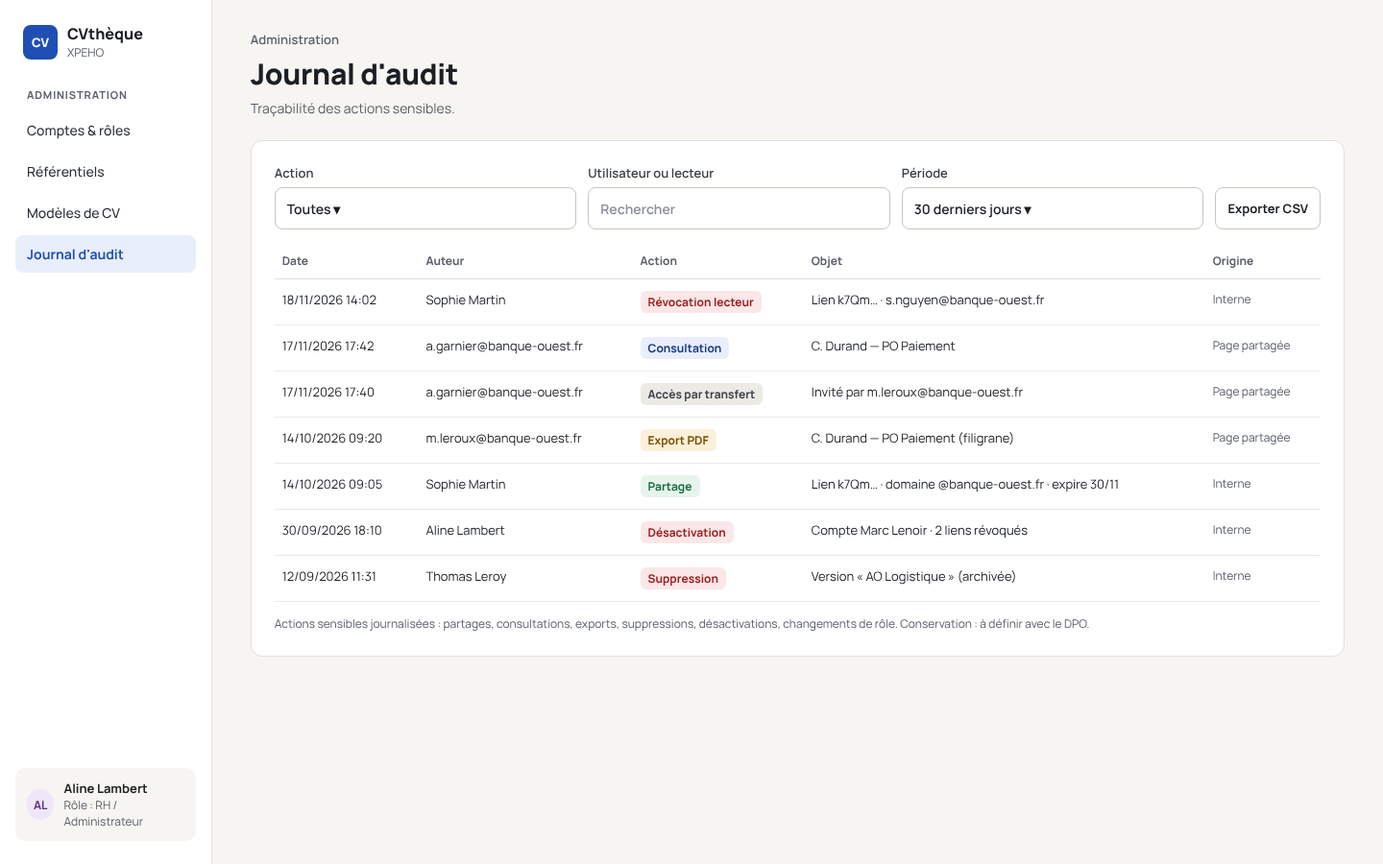
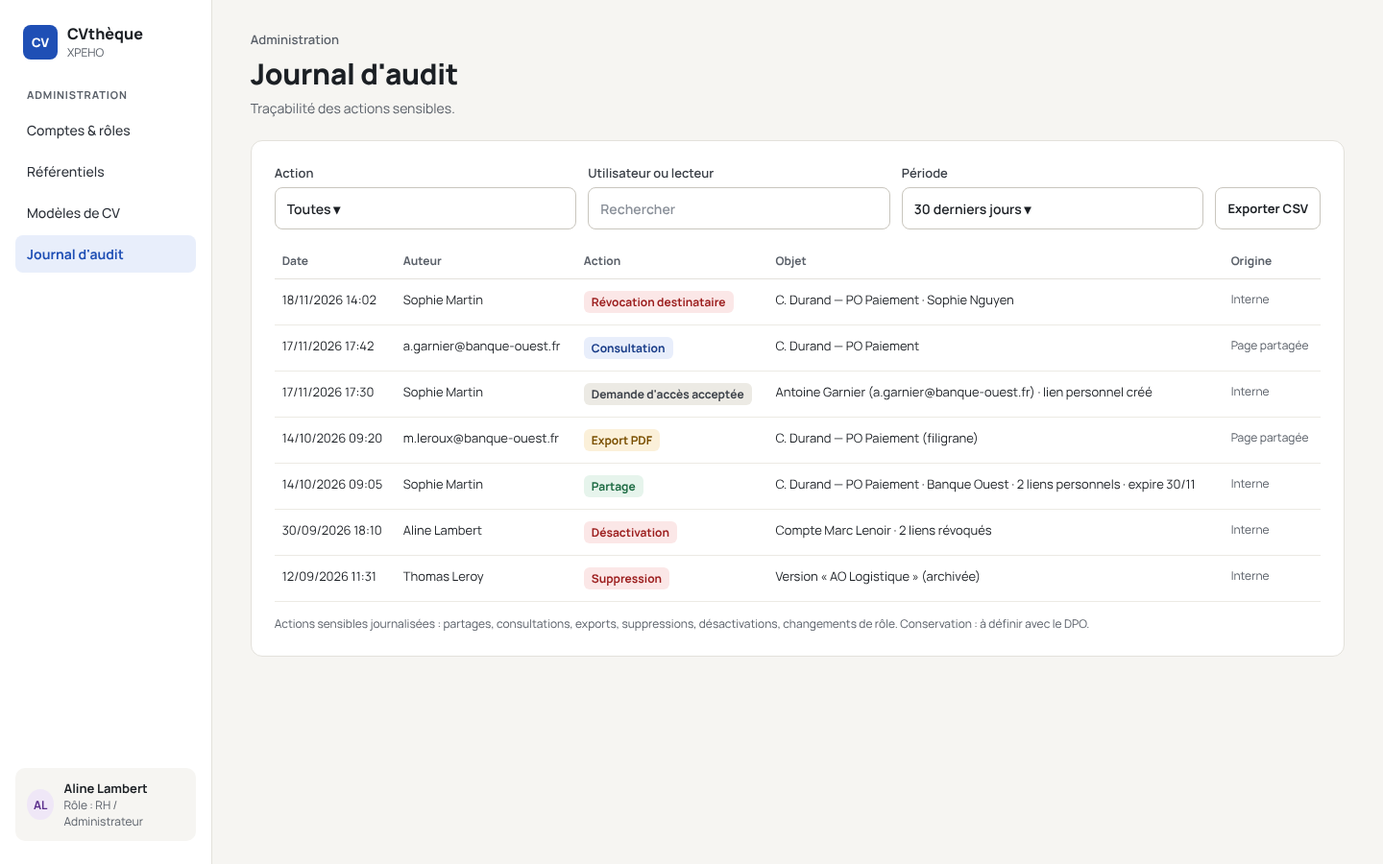
docs: [CVIP-9] retirer les envois d'e-mails automatiques du cahier des charges L'application n'envoie plus aucun e-mail automatique ; les informations utiles sont affichées dans l'application. - §1 : envoi d'e-mails automatiques ajouté au hors périmètre (décidé). - §3.1.4 : la relance e-mail des CV 
dans l'application.
-
§3.3.3 à 3.3.6 : l'accès par code e-mail (modes domaine et nominatif)

est remplacé par un lien personnel et un mot de passe générés pour

chaque destinataire, transmis par le commercial ; le bouton « Partager

avec un collègue » est remplacé par une demande d'accès validée par le

commercial ; révocation par destinataire.
-
§3.3.7 : les notifications e-mail au commercial sont remplacées par un

suivi des consultations et des demandes d'accès dans l'application.
-
§2, §3.3.2, §5 : rôle client, filigrane et sécurité des liens alignés ;

le consultant voit ses partages dans l'application (transparence RGPD).
-
§3.5.1, §5 : plus d'invitation ni de réinitialisation par e-mail ; le

RH ou l'administrateur génère un mot de passe provisoire, transmis

manuellement et à changer à la première connexion.
-
§7 : lot 1 mis à jour, « relances automatiques » retiré du lot 4.
-
§8 : décisions sur le mode d'accès et les notifications consignées.
-
Maquettes : accès client, liens de partage, CV client, consultants,

connexion, comptes et rôles et journal d'audit alignés ; README

(révision du 2026-11-23) et captures mis à jour.

diff --git a/doc/maquettes/sources/Partage.dc.html b/doc/maquettes/sources/Partage.dc.html
@@ -64,93 +64,89 @@ a{color:#1F4FB5}a:hover{color:#163A87}
 <div class="k-between" style="align-items:flex-end"><div style="display: flex; flex-direction: column; gap: 6px">
 <span style="font-size: 13px; color: #5A6069; font-weight: 600">Commerce</span>
 <h1 style="margin: 0; font-size: 30px; font-weight: 800; letter-spacing: -0.01em">Liens de partage</h1>
-<span style="font-size: 14px; color: #5A6069">Chaque lien pointe vers une version figée du CV, rattachée à un client. Chaque consultation est tracée nominativement.</span>
+<span style="font-size: 14px; color: #5A6069">Chaque partage pointe vers une version figée du CV, rattachée à un client, avec un lien personnel par destinataire. Chaque consultation est tracée nominativement.</span>
 </div><div class="k-row"></div></div>
 
 <div style="display: flex; flex-wrap: wrap; gap: 24px; align-items: flex-start">
 
 <section class="k-card" style="flex: 1 1 340px">
-<h2 class="k-h2">Nouveau lien</h2>
+<h2 class="k-h2">Nouveau partage</h2>
 <label class="k-field">Version du CV<span class="k-inp">Camille Durand — AO PO Paiement — Banque Ouest ▾</span></label>
-<label class="k-field">Client<span class="k-inp">Banque Ouest · domaine @banque-ouest.fr ▾</span></label>
-<div class="k-col"><span style="font-size: 13px; font-weight: 700; color: #3A3F47">Mode d'accès</span>
-<div class="k-radio on"><span class="k-dot"></span><span class="k-col" style="gap:2px"><b>Domaine du client</b> <span class="k-pill k-info" style="align-self:flex-start">Par défaut</span><span class="k-muted">Toute adresse <b>@banque-ouest.fr</b> reçoit un code à usage unique par e-mail. Indisponible pour les messageries grand public (gmail, outlook…).</span></span></div>
-<div class="k-radio"><span class="k-dot"></span><span class="k-col" style="gap:2px"><b>Nominatif</b><span class="k-muted">Accès réservé à une liste d'adresses, toujours par code e-mail.</span></span></div>
-<div class="k-radio"><span class="k-dot"></span><span class="k-col" style="gap:2px"><b>Mot de passe (secours)</b><span class="k-muted">Pour les destinataires inconnus (plateformes d'achat). Le mot de passe est transmis par un autre canal.</span></span></div>
+<label class="k-field">Client<span class="k-inp">Banque Ouest ▾</span></label>
+<div class="k-col"><span style="font-size: 13px; font-weight: 700; color: #3A3F47">Destinataires</span>
+<span class="k-muted">Un lien personnel et un mot de passe sont générés pour chaque destinataire.</span>
+<div class="k-row" style="gap:8px"><span class="k-inp" style="flex:1 1 140px">Marie Leroux</span><span class="k-inp" style="flex:2 1 200px">m.leroux@banque-ouest.fr</span></div>
+<div class="k-row" style="gap:8px"><span class="k-inp" style="flex:1 1 140px;color:#8A9099">[nom]</span><span class="k-inp" style="flex:2 1 200px;color:#8A9099">[email]</span></div>
+<span class="k-btn2" style="align-self:flex-start">+ Ajouter un destinataire</span>
 </div>
-<label class="k-field">Premier destinataire (facultatif)<span class="k-inp" style="color:#8A9099">[prenom.nom]@banque-ouest.fr</span></label>
 <div class="k-row"><label class="k-field">Expire le<span class="k-inp">18/12/2026</span><span class="k-muted" style="font-weight:500">30 jours par défaut</span></label></div>
-<label class="k-check"><input type="checkbox" checked>Autoriser le téléchargement PDF (filigrane : e-mail du lecteur + date)</label>
-<label class="k-check"><input type="checkbox" checked>Autoriser le transfert aux collègues du même domaine</label>
-<button type="button" class="k-btn">Générer le lien</button>
+<label class="k-check"><input type="checkbox" checked>Autoriser le téléchargement PDF (filigrane : nom et e-mail du destinataire + date)</label>
+<button type="button" class="k-btn">Générer les liens</button>
 <div class="k-note">
-<b>Lien généré</b><br>
-<code style="font-size:14px;font-weight:600;color:#1B1F24">cv.[domaine-xpeho]/c/k7Qm2Rx9fT3vLw8a</code> <span class="k-btn2" style="margin-left:6px">Copier</span><br>
-<span>Jeton aléatoire de 128 bits, page non indexée. Code valable 10 minutes, accès conservé 7 jours sur le même appareil. Le consultant est informé du partage.</span>
+<b>Lien généré pour Marie Leroux</b><br>
+<div class="k-between" style="margin:6px 0"><code style="font-size:13px;font-weight:600;color:#1B1F24;word-break:break-all;flex:1 1 160px">cv.[domaine-xpeho]/c/k7Qm2Rx9fT3vLw8a</code><span class="k-btn2">Copier</span></div>
+<div class="k-between" style="margin:0 0 6px"><span style="font-weight:600;color:#1B1F24;flex:1 1 160px">Mot de passe : ••••••••••••</span><span class="k-row" style="gap:6px"><span class="k-btn2">Afficher</span><span class="k-btn2">Copier</span></span></div>
+<span>À transmettre vous-même au destinataire, idéalement par deux canaux distincts (ex. lien par e-mail, mot de passe par téléphone). L'application n'envoie aucun e-mail. Jeton aléatoire de 128 bits, page non indexée, accès conservé 7 jours sur le même appareil. Le partage est visible par le consultant dans son espace.</span>
 </div>
 </section>
 
 <div style="flex: 3 1 640px; min-width: 0; display: flex; flex-direction: column; gap: 24px">
 
 <section class="k-card">
-<div class="k-between"><h2 class="k-h2">À traiter</h2><span class="k-pill k-warn">2</span></div>
+<div class="k-between"><h2 class="k-h2">À traiter</h2><span class="k-pill k-warn">1</span></div>
 <div class="k-between" style="padding:12px;border:1px solid #EBCB8B;border-radius:10px;background:#FFF7E8">
-<span class="k-col" style="gap:2px"><b style="font-size:14px">Demande d'accès hors domaine</b><span class="k-muted">j.dupont@cabinet-achats.fr, transféré par m.leroux@banque-ouest.fr · C. Durand — PO Paiement · il y a 2 h</span></span>
-<span class="k-row" style="gap:8px"><span class="k-btn2 k-danger">Refuser</span><span class="k-btn" style="min-height:36px">Accorder l'accès</span></span>
+<span class="k-col" style="gap:2px"><b style="font-size:14px">Demande d'accès</b><span class="k-muted">Julien Dupont · j.dupont@cabinet-achats.fr (Cabinet Achats) · depuis le lien de M. Leroux · C. Durand — PO Paiement · il y a 2 h</span></span>
+<span class="k-row" style="gap:8px"><span class="k-btn2 k-danger">Refuser</span><span class="k-btn" style="min-height:36px">Accepter et générer un lien</span></span>
 </div>
-<div class="k-between" style="padding:12px;border:1px solid #E3E1DB;border-radius:10px">
-<span class="k-col" style="gap:2px"><b style="font-size:14px">Nouveau lecteur</b><span class="k-muted">a.garnier@banque-ouest.fr a ouvert C. Durand — PO Paiement (transfert interne) · hier, 17:42</span></span>
-<span class="k-btn2">Voir</span>
-</div>
-<span class="k-muted">Notifications envoyées par e-mail : première consultation, nouveau lecteur, demande d'accès hors domaine.</span>
+<span class="k-muted">Les demandes d'accès et les consultations s'affichent ici et dans le détail de chaque partage. Aucune notification n'est envoyée par e-mail.</span>
 </section>
 
 <section class="k-card">
 <div class="k-between">
-<h2 class="k-h2">Liens envoyés</h2>
-<label class="k-row" style="gap:8px;font-size:13px;font-weight:600;color:#3A3F47">Filtrer<span class="k-inp" style="min-height:40px">Tous les liens actifs ▾</span></label>
+<h2 class="k-h2">Partages envoyés</h2>
+<label class="k-row" style="gap:8px;font-size:13px;font-weight:600;color:#3A3F47">Filtrer<span class="k-inp" style="min-height:40px">Tous les partages actifs ▾</span></label>
 </div>
 <div style="overflow-x:auto"><table class="k-tbl" style="min-width:640px">
-<thead><tr><th>Version</th><th>Client · mode</th><th>Expire</th><th>Lecteurs</th><th>Statut</th><th></th></tr></thead>
+<thead><tr><th>Version</th><th>Client</th><th>Expire</th><th>Destinataires</th><th>Statut</th><th></th></tr></thead>
 <tbody>
 <tr style="background:#F8FAFE">
 <td><span class="k-col" style="gap:2px"><b>C. Durand — PO Paiement</b><span class="k-muted">Envoyé le 14/10/2026</span></span></td>
-<td><span class="k-col" style="gap:2px">Banque Ouest<span class="k-muted">Domaine @banque-ouest.fr</span></span></td>
+<td>Banque Ouest</td>
 <td>30/11/2026</td>
-<td><b>3 lecteurs</b><br><span class="k-muted">6 consultations · 1 téléchargement</span></td>
+<td><b>3 destinataires</b><br><span class="k-muted">6 consultations · 1 téléchargement</span></td>
 <td><span class="k-pill k-ok">Actif</span></td>
-<td style="text-align:right"><span class="k-btn2 k-danger">Révoquer le lien</span></td>
+<td style="text-align:right"><span class="k-btn2 k-danger">Révoquer le partage</span></td>
 </tr>
 <tr><td colspan="6" style="padding:0 8px 16px;background:#F8FAFE">
 <table class="k-tbl" style="font-size:13px;background:#FFF;border:1px solid #E3E1DB;border-radius:8px">
-<thead><tr><th>Lecteur</th><th>Accès obtenu</th><th>Consultations</th><th>Téléchargement PDF</th><th></th></tr></thead>
+<thead><tr><th>Destinataire</th><th>Lien créé</th><th>Consultations</th><th>Téléchargement PDF</th><th></th></tr></thead>
 <tbody>
-<tr><td><b>m.leroux@banque-ouest.fr</b><br><span class="k-muted">Destinataire initial</span></td><td>14/10/2026 09:12</td><td>3 · dernière le 16/10, 11:05</td><td>Oui · 14/10, 09:20</td><td style="text-align:right"><span class="k-btn2 k-danger">Révoquer ce lecteur</span></td></tr>
-<tr><td><b>s.nguyen@banque-ouest.fr</b><br><span class="k-muted">Domaine</span></td><td>15/10/2026 14:30</td><td>2 · dernière le 15/10, 14:41</td><td>Non</td><td style="text-align:right"><span class="k-btn2 k-danger">Révoquer ce lecteur</span></td></tr>
-<tr><td><b>a.garnier@banque-ouest.fr</b><br><span class="k-muted">Transféré par m.leroux</span></td><td>17/11/2026 17:40</td><td>1 · hier, 17:42</td><td>Non</td><td style="text-align:right"><span class="k-btn2 k-danger">Révoquer ce lecteur</span></td></tr>
+<tr><td><b>Marie Leroux</b><br><span class="k-muted">m.leroux@banque-ouest.fr</span></td><td>14/10/2026 09:05</td><td>3 · dernière le 16/10, 11:05</td><td>Oui · 14/10, 09:20</td><td style="text-align:right"><span class="k-btn2 k-danger">Révoquer</span></td></tr>
+<tr><td><b>Sophie Nguyen</b><br><span class="k-muted">s.nguyen@banque-ouest.fr</span></td><td>14/10/2026 09:05</td><td>2 · dernière le 15/10, 14:41</td><td>Non</td><td style="text-align:right"><span class="k-btn2 k-danger">Révoquer</span></td></tr>
+<tr><td><b>Antoine Garnier</b><br><span class="k-muted">a.garnier@banque-ouest.fr · demande acceptée le 17/11</span></td><td>17/11/2026 17:30</td><td>1 · hier, 17:42</td><td>Non</td><td style="text-align:right"><span class="k-btn2 k-danger">Révoquer</span></td></tr>
 </tbody></table>
 </td></tr>
 <tr>
 <td><span class="k-col" style="gap:2px"><b>H. Lefebvre — Dév. Java/Kafka</b><span class="k-muted">Envoyé le 09/10/2026</span></span></td>
-<td><span class="k-col" style="gap:2px">Enseigne Sport<span class="k-muted">Nominatif · 2 adresses</span></span></td>
+<td>Enseigne Sport</td>
 <td>08/12/2026</td>
-<td><b style="color:#7A4F00">Aucun lecteur</b><br><span class="k-muted">Code jamais demandé</span></td>
+<td><b style="color:#7A4F00">2 destinataires</b><br><span class="k-muted">Aucune consultation</span></td>
 <td><span class="k-pill k-ok">Actif</span></td>
 <td style="text-align:right"><span class="k-btn2">Détail</span></td>
 </tr>
 <tr>
 <td><span class="k-col" style="gap:2px"><b>N. Benali — Architecte</b><span class="k-muted">Envoyé le 21/10/2026</span></span></td>
-<td><span class="k-col" style="gap:2px">Région Hauts-de-France<span class="k-muted">Mot de passe · plateforme d'achat</span></span></td>
+<td>Région Hauts-de-France</td>
 <td>20/11/2026</td>
-<td><b>2 consultations</b><br><span class="k-muted">Lecteur non identifié (mode mot de passe)</span></td>
+<td><b>1 destinataire</b><br><span class="k-muted">Plateforme d'achat · 2 consultations</span></td>
 <td><span class="k-pill k-ok">Actif</span></td>
 <td style="text-align:right"><span class="k-btn2">Détail</span></td>
 </tr>
 <tr>
 <td><span class="k-col" style="gap:2px"><b>I. Morel — QA e-commerce</b><span class="k-muted">Envoyé le 02/09/2026</span></span></td>
-<td><span class="k-col" style="gap:2px">Groupe Distribution Nord<span class="k-muted">Domaine @distrinord.fr</span></span></td>
+<td>Groupe Distribution Nord</td>
 <td>02/10/2026</td>
-<td><b>2 lecteurs</b><br><span class="k-muted">5 consultations</span></td>
+<td><b>2 destinataires</b><br><span class="k-muted">5 consultations</span></td>
 <td><span class="k-pill">Expiré</span></td>
 <td style="text-align:right"><span class="k-btn2">Prolonger</span></td>
 </tr>

diff --git a/doc/maquettes/sources/Acces.dc.html b/doc/maquettes/sources/Acces.dc.html
@@ -49,29 +49,23 @@ a{color:#1F4FB5}a:hover{color:#163A87}
 <header style="background: #14213D; color: #FFFFFF; padding: 14px 24px"><div style="max-width:1040px;margin:0 auto"><span style="font-weight: 800; font-size: 16px; letter-spacing: 0.06em">XPEHO</span></div></header>
 <main style="flex:1;padding:48px 24px 64px;display:flex;flex-wrap:wrap;gap:24px;justify-content:center;align-items:flex-start">
 <section class="k-card" style="flex:0 1 420px">
-<span class="k-pill k-info" style="align-self:flex-start">Étape 1 / 2</span>
+<span class="k-pill k-info" style="align-self:flex-start">Lien personnel</span>
 <h1 style="margin:0;font-size:24px;font-weight:800">Consulter un CV partagé par XPEHO</h1>
-<span class="k-muted" style="font-size:14px">Ce lien est réservé aux adresses <b>@banque-ouest.fr</b>. Saisissez votre adresse professionnelle pour recevoir un code d'accès.</span>
-<div class="k-field">Adresse e-mail professionnelle<span class="k-inp">m.leroux@banque-ouest.fr</span></div>
-<span class="k-btn" style="min-height:44px">Recevoir un code</span>
-<span class="k-muted">Une adresse d'un autre domaine ? Votre demande sera transmise à votre contact XPEHO, qui pourra l'accepter.</span>
-</section>
-<section class="k-card" style="flex:0 1 420px">
-<span class="k-pill k-info" style="align-self:flex-start">Étape 2 / 2</span>
-<h2 style="margin:0;font-size:24px;font-weight:800">Saisissez le code reçu</h2>
-<span class="k-muted" style="font-size:14px">Code envoyé à m.leroux@banque-ouest.fr. Il est valable 10 minutes et ne sert qu'une fois.</span>
-<div class="k-row" style="gap:8px"><span class="k-inp" style="width:48px;justify-content:center;font-size:20px;font-weight:800">4</span><span class="k-inp" style="width:48px;justify-content:center;font-size:20px;font-weight:800">8</span><span class="k-inp" style="width:48px;justify-content:center;font-size:20px;font-weight:800">1</span><span class="k-inp" style="width:48px;justify-content:center;font-size:20px;font-weight:800">9</span><span class="k-inp" style="width:48px;justify-content:center;font-size:20px;font-weight:800">0</span><span class="k-inp" style="width:48px;justify-content:center;font-size:20px;font-weight:800">_</span></div>
+<span class="k-muted" style="font-size:14px">Ce lien est personnel : il est réservé à <b>Marie Leroux</b> (Banque Ouest). Saisissez le mot de passe que votre contact XPEHO vous a communiqué.</span>
+<div class="k-field">Mot de passe<span class="k-inp">••••••••••••</span></div>
 <label class="k-check"><input type="checkbox" checked>Se souvenir de cet appareil pendant 7 jours</label>
 <a href="Public.dc.html" class="k-btn" style="min-height:44px">Accéder au CV</a>
-<span class="k-muted">Pas reçu ? <a href="#">Renvoyer un code</a> · 5 tentatives maximum.</span>
+<span class="k-muted">Mot de passe perdu ? Contactez votre interlocuteur XPEHO · 5 tentatives maximum.</span>
 </section>
 <section class="k-card" style="flex:0 1 420px">
-<span class="k-pill k-warn" style="align-self:flex-start">Mode mot de passe</span>
-<h2 style="margin:0;font-size:20px;font-weight:800">Lien protégé par mot de passe</h2>
-<span class="k-muted" style="font-size:14px">Le mot de passe vous a été communiqué par un autre canal.</span>
-<div class="k-field">Votre adresse e-mail<span class="k-inp" style="color:#8A9099">[email]</span></div>
-<div class="k-field">Mot de passe<span class="k-inp">••••••••••</span></div>
-<span class="k-btn" style="min-height:44px">Accéder au CV</span>
+<span class="k-pill" style="align-self:flex-start">Demande d'accès</span>
+<h2 style="margin:0;font-size:20px;font-weight:800">Vous n'êtes pas Marie Leroux ?</h2>
+<span class="k-muted" style="font-size:14px">Ce lien ne doit pas être retransmis. Pour consulter ce CV, demandez votre propre accès.</span>
+<div class="k-field">Nom<span class="k-inp" style="color:#8A9099">[nom]</span></div>
+<div class="k-field">Adresse e-mail professionnelle<span class="k-inp" style="color:#8A9099">[email]</span></div>
+<div class="k-field">Société<span class="k-inp">Banque Ouest</span></div>
+<span class="k-btn2" style="align-self:flex-start">Envoyer la demande</span>
+<span class="k-muted">Votre contact XPEHO examinera la demande dans l'application et, s'il l'accepte, vous transmettra lui-même un lien personnel et un mot de passe.</span>
 </section>
 <section class="k-card" style="flex:0 1 420px">
 <span class="k-pill k-err" style="align-self:flex-start">Lien expiré ou révoqué</span>
@@ -80,7 +74,7 @@ a{color:#1F4FB5}a:hover{color:#163A87}
 <span class="k-btn2" style="align-self:flex-start">Demander un nouvel accès</span>
 </section>
 </main>
-<p style="margin:0 auto 32px;max-width:860px;text-align:center;font-size:12px;color:#5A6069;line-height:1.5">Document confidentiel contenant des données personnelles. Chaque consultation est enregistrée (adresse e-mail, date, téléchargement). Page non indexée par les moteurs de recherche.</p>
+<p style="margin:0 auto 32px;max-width:860px;text-align:center;font-size:12px;color:#5A6069;line-height:1.5">Document confidentiel contenant des données personnelles. Chaque consultation est enregistrée au nom du destinataire du lien (date, téléchargement). Page non indexée par les moteurs de recherche.</p>
 </div>
 </x-dc>
 <script type="text/x-dc" data-dc-script data-props='{"$preview":{"width":1440,"height":1000}}'>

diff --git a/doc/maquettes/sources/Public.dc.html b/doc/maquettes/sources/Public.dc.html
@@ -53,12 +53,12 @@ a{color:#1F4FB5}a:hover{color:#163A87}
 <span style="font-weight: 800; font-size: 16px; letter-spacing: 0.06em">XPEHO</span>
 <span style="font-size: 13px; color: #C9D3E8">Profil proposé à Banque Ouest · lien valable jusqu'au 30/11/2026 · connecté en tant que m.leroux@banque-ouest.fr</span>
 </div>
-<div style="display:flex;gap:10px;flex-wrap:wrap"><button type="button" style="min-height: 44px; padding: 0 18px; border-radius: 10px; border: 1px solid #8FA3CC; background: transparent; color: #FFFFFF; font-family: inherit; font-size: 14px; font-weight: 700">Partager avec un collègue</button><button type="button" style="min-height: 44px; padding: 0 18px; border-radius: 10px; border: 1px solid #8FA3CC; background: transparent; color: #FFFFFF; font-family: inherit; font-size: 14px; font-weight: 700">Télécharger en PDF</button></div>
+<div style="display:flex;gap:10px;flex-wrap:wrap"><button type="button" style="min-height: 44px; padding: 0 18px; border-radius: 10px; border: 1px solid #8FA3CC; background: transparent; color: #FFFFFF; font-family: inherit; font-size: 14px; font-weight: 700">Télécharger en PDF</button></div>
 </div>
 </header>
 
 <main style="flex: 1; padding: 40px 24px 64px">
-<div style="max-width: 1040px; margin: 0 auto 16px; padding: 12px 16px; border-radius: 10px; background: #FFF7E8; border: 1px solid #EBCB8B; font-size: 13px; line-height: 1.5; color: #5C3D00"><b>Document confidentiel.</b> Ce CV contient des données personnelles transmises par XPEHO à Banque Ouest dans le cadre d'une proposition commerciale. Il ne doit pas être diffusé hors de votre organisation. Votre consultation est enregistrée ; le PDF téléchargé porte votre adresse e-mail et la date en filigrane.</div>
+<div style="max-width: 1040px; margin: 0 auto 16px; padding: 12px 16px; border-radius: 10px; background: #FFF7E8; border: 1px solid #EBCB8B; font-size: 13px; line-height: 1.5; color: #5C3D00"><b>Document confidentiel.</b> Ce CV contient des données personnelles transmises par XPEHO à Banque Ouest dans le cadre d'une proposition commerciale. Il ne doit pas être diffusé hors de votre organisation. Votre consultation est enregistrée ; le PDF téléchargé porte votre nom, votre adresse e-mail et la date en filigrane.</div>
 <article style="max-width: 1040px; margin: 0 auto; background: #FFFFFF; border-radius: 16px; box-shadow: 0 1px 3px rgba(20,20,19,0.06); padding: 48px 56px; box-sizing: border-box; display: flex; flex-direction: column; gap: 36px">
 
 <div style="display: flex; flex-wrap: wrap; gap: 28px; align-items: center; padding-bottom: 28px; border-bottom: 2px solid #1B1F24">
@@ -157,9 +157,8 @@ a{color:#1F4FB5}a:hover{color:#163A87}
 </footer>
 
 <section style="display:flex;flex-direction:column;gap:12px;padding:20px 24px;border-radius:12px;border:1px solid #E3E1DB">
-<span style="font-size:15px;font-weight:800">Partager avec un collègue</span>
-<span class="k-muted">Votre collègue recevra une invitation et son propre code d'accès. Une adresse hors de @banque-ouest.fr déclenche une demande validée par XPEHO.</span>
-<div style="display:flex;gap:10px;flex-wrap:wrap"><span class="k-inp" style="flex:1 1 280px;color:#8A9099">[prenom.nom]@banque-ouest.fr</span><span class="k-btn" style="min-height:44px">Envoyer l'invitation</span></div>
+<span style="font-size:15px;font-weight:800">Un collègue a besoin de ce CV ?</span>
+<span class="k-muted">Ce lien vous est personnel : merci de ne pas le retransmettre. Votre collègue peut demander son propre accès depuis la page de connexion (« Vous n'êtes pas Marie Leroux ? »), ou s'adresser à votre interlocuteur XPEHO.</span>
 </section>
 <p style="margin:0;font-size:12px;color:#5A6069;line-height:1.5">Confidentiel — CV transmis par XPEHO. Données personnelles traitées conformément au RGPD ; contact : [dpo@domaine-xpeho].</p>
 

diff --git a/doc/maquettes/sources/Audit.dc.html b/doc/maquettes/sources/Audit.dc.html
@@ -68,7 +68,7 @@ a{color:#1F4FB5}a:hover{color:#163A87}
 <div class="k-row"><div class="k-field">Action<span class="k-inp">Toutes ▾</span></div><div class="k-field">Utilisateur ou lecteur<span class="k-inp" style="color:#8A9099">Rechercher</span></div><div class="k-field">Période<span class="k-inp">30 derniers jours ▾</span></div><div class="k-field" style="flex:0 0 auto">&nbsp;<span class="k-btn2" style="min-height:44px">Exporter CSV</span></div></div>
 <div style="overflow-x:auto"><table class="k-tbl" style="min-width:820px;font-size:13px">
 <thead><tr><th>Date</th><th>Auteur</th><th>Action</th><th>Objet</th><th>Origine</th></tr></thead>
-<tbody><tr><td>18/11/2026 14:02</td><td>Sophie Martin</td><td><span class="k-pill k-err">Révocation lecteur</span></td><td>Lien k7Qm… · s.nguyen@banque-ouest.fr</td><td class="k-muted">Interne</td></tr><tr><td>17/11/2026 17:42</td><td>a.garnier@banque-ouest.fr</td><td><span class="k-pill k-info">Consultation</span></td><td>C. Durand — PO Paiement</td><td class="k-muted">Page partagée</td></tr><tr><td>17/11/2026 17:40</td><td>a.garnier@banque-ouest.fr</td><td><span class="k-pill">Accès par transfert</span></td><td>Invité par m.leroux@banque-ouest.fr</td><td class="k-muted">Page partagée</td></tr><tr><td>14/10/2026 09:20</td><td>m.leroux@banque-ouest.fr</td><td><span class="k-pill k-warn">Export PDF</span></td><td>C. Durand — PO Paiement (filigrane)</td><td class="k-muted">Page partagée</td></tr><tr><td>14/10/2026 09:05</td><td>Sophie Martin</td><td><span class="k-pill k-ok">Partage</span></td><td>Lien k7Qm… · domaine @banque-ouest.fr · expire 30/11</td><td class="k-muted">Interne</td></tr><tr><td>30/09/2026 18:10</td><td>Aline Lambert</td><td><span class="k-pill k-err">Désactivation</span></td><td>Compte Marc Lenoir · 2 liens révoqués</td><td class="k-muted">Interne</td></tr><tr><td>12/09/2026 11:31</td><td>Thomas Leroy</td><td><span class="k-pill k-err">Suppression</span></td><td>Version « AO Logistique » (archivée)</td><td class="k-muted">Interne</td></tr></tbody></table></div>
+<tbody><tr><td>18/11/2026 14:02</td><td>Sophie Martin</td><td><span class="k-pill k-err">Révocation destinataire</span></td><td>C. Durand — PO Paiement · Sophie Nguyen</td><td class="k-muted">Interne</td></tr><tr><td>17/11/2026 17:42</td><td>a.garnier@banque-ouest.fr</td><td><span class="k-pill k-info">Consultation</span></td><td>C. Durand — PO Paiement</td><td class="k-muted">Page partagée</td></tr><tr><td>17/11/2026 17:30</td><td>Sophie Martin</td><td><span class="k-pill">Demande d'accès acceptée</span></td><td>Antoine Garnier (a.garnier@banque-ouest.fr) · lien personnel créé</td><td class="k-muted">Interne</td></tr><tr><td>14/10/2026 09:20</td><td>m.leroux@banque-ouest.fr</td><td><span class="k-pill k-warn">Export PDF</span></td><td>C. Durand — PO Paiement (filigrane)</td><td class="k-muted">Page partagée</td></tr><tr><td>14/10/2026 09:05</td><td>Sophie Martin</td><td><span class="k-pill k-ok">Partage</span></td><td>C. Durand — PO Paiement · Banque Ouest · 2 liens personnels · expire 30/11</td><td class="k-muted">Interne</td></tr><tr><td>30/09/2026 18:10</td><td>Aline Lambert</td><td><span class="k-pill k-err">Désactivation</span></td><td>Compte Marc Lenoir · 2 liens révoqués</td><td class="k-muted">Interne</td></tr><tr><td>12/09/2026 11:31</td><td>Thomas Leroy</td><td><span class="k-pill k-err">Suppression</span></td><td>Version « AO Logistique » (archivée)</td><td class="k-muted">Interne</td></tr></tbody></table></div>
 <span class="k-muted">Actions sensibles journalisées : partages, consultations, exports, suppressions, désactivations, changements de rôle. Conservation : à définir avec le DPO.</span>
 </section>
 

diff --git a/doc/maquettes/sources/Admin.dc.html b/doc/maquettes/sources/Admin.dc.html
@@ -70,12 +70,12 @@ a{color:#1F4FB5}a:hover{color:#163A87}
 <div style="overflow-x:auto"><table class="k-tbl" style="min-width:640px">
 <thead><tr><th>Utilisateur</th><th>Rôle</th><th>Manager</th><th>Dernière connexion</th><th>Statut</th><th></th></tr></thead>
 <tbody>
-<tr><td><b>Camille Durand</b><br><span class="k-muted">[email]</span></td><td>Consultant</td><td>Paul Bernard</td><td>Aujourd'hui</td><td><span class="k-pill k-ok">Actif</span></td><td><span class="k-btn2">Modifier</span></td></tr>
+<tr><td><b>Camille Durand</b><br><span class="k-muted">[email]</span></td><td>Consultant</td><td>Paul Bernard</td><td>Aujourd'hui</td><td><span class="k-pill k-ok">Actif</span></td><td><span class="k-row" style="gap:6px"><span class="k-btn2">Modifier</span><span class="k-btn2">Réinitialiser le mot de passe</span></span></td></tr>
 <tr><td><b>Sophie Martin</b><br><span class="k-muted">[email]</span></td><td>Commercial</td><td>—</td><td>Aujourd'hui</td><td><span class="k-pill k-ok">Actif</span></td><td><span class="k-btn2">Modifier</span></td></tr>
 <tr><td><b>Paul Bernard</b><br><span class="k-muted">[email]</span></td><td>Manager</td><td>—</td><td>Hier</td><td><span class="k-pill k-ok">Actif</span></td><td><span class="k-btn2">Modifier</span></td></tr>
 <tr><td><b>Marc Lenoir</b><br><span class="k-muted">[email]</span></td><td>Consultant</td><td>Paul Bernard</td><td>30/09/2026</td><td><span class="k-pill">Désactivé le 30/09</span></td><td><span class="k-btn2">Détail</span></td></tr>
 </tbody></table></div>
-<span class="k-muted">Comptes créés depuis l'annuaire de l'entreprise (SSO). Les RH créent et désactivent les collaborateurs ; l'administrateur gère les rôles.</span>
+<span class="k-muted">Les RH créent et désactivent les collaborateurs ; l'administrateur gère les rôles. À la création ou à la réinitialisation, l'application génère un mot de passe provisoire que les RH transmettent eux-mêmes ; il doit être changé à la première connexion. Aucun e-mail n'est envoyé.</span>
 </section>
 <section class="k-card" style="flex:1 1 340px">
 <h2 class="k-h2">Désactiver un consultant</h2>

diff --git a/doc/maquettes/sources/Connexion.dc.html b/doc/maquettes/sources/Connexion.dc.html
@@ -49,10 +49,11 @@ a{color:#1F4FB5}a:hover{color:#163A87}
 <section class="k-card" style="width:420px;max-width:100%;align-items:stretch;gap:18px">
 <div class="k-row" style="gap:10px"><div style="width: 40px; height: 40px; border-radius: 8px; background: #1F4FB5; color: #FFFFFF; display: flex; align-items: center; justify-content: center; font-weight: 800; font-size: 14px">CV</div><div class="k-col" style="gap:0"><b style="font-size:18px">CVthèque</b><span class="k-muted">XPEHO</span></div></div>
 <h1 style="margin:0;font-size:24px;font-weight:800">Connexion</h1>
-<span class="k-muted" style="font-size:14px">Connectez-vous avec votre compte d'entreprise. Votre rôle (consultant, commercial, manager, RH, administrateur) est attribué par les RH.</span>
-<span class="k-btn" style="min-height:48px">Se connecter avec Microsoft 365</span>
-<span class="k-btn2" style="min-height:48px">Se connecter avec Google Workspace</span>
-<span class="k-muted">Authentification unique (OIDC) avec double facteur. Aucun mot de passe propre à l'application.</span>
+<span class="k-muted" style="font-size:14px">Votre compte est créé par les RH, qui vous attribuent votre rôle (consultant, commercial, manager, RH, administrateur).</span>
+<div class="k-field">Adresse e-mail<span class="k-inp">c.durand@[domaine-xpeho]</span></div>
+<div class="k-field">Mot de passe<span class="k-inp">••••••••••</span></div>
+<span class="k-btn" style="min-height:48px">Se connecter</span>
+<span class="k-muted">Première connexion : utilisez le mot de passe provisoire transmis par les RH, puis choisissez le vôtre. Mot de passe oublié ? Demandez une réinitialisation aux RH ou à un administrateur. Double facteur (TOTP) recommandé.</span>
 </section>
 </div>
 </x-dc>

diff --git a/doc/maquettes/sources/Consultants.dc.html b/doc/maquettes/sources/Consultants.dc.html
@@ -83,7 +83,7 @@ a{color:#1F4FB5}a:hover{color:#163A87}
 <h1 style="margin: 0; font-size: 30px; font-weight: 800; letter-spacing: -0.01em">Consultants</h1>
 <span style="font-size: 14px; color: #5A6069">52 consultants · 9 disponibles sous 30 jours</span>
 </div>
-<button type="button" style="min-height: 44px; padding: 0 20px; border-radius: 10px; border: 1px solid #C9C6BE; background: #FFFFFF; font-family: inherit; font-size: 14px; font-weight: 700; color: #1B1F24">Relancer les CV non à jour (11)</button>
+<button type="button" style="min-height: 44px; padding: 0 20px; border-radius: 10px; border: 1px solid #C9C6BE; background: #FFFFFF; font-family: inherit; font-size: 14px; font-weight: 700; color: #1B1F24">Afficher les CV non à jour (11)</button>
 </div>
 
 <section aria-label="Recherche et filtres" style="background: #FFFFFF; border: 1px solid #E3E1DB; border-radius: 12px; padding: 18px 20px; display: flex; flex-direction: column; gap: 14px">

diff --git a/doc/maquettes/README.md b/doc/maquettes/README.md
@@ -7,6 +7,20 @@ Maquettes des écrans de l'application. Base : artefact claude.ai « CVthèque X
 
 Le [cahier des charges](../Cahier%20des%20charges%20–%20Application%20de%20gestion%20de%20CV%20(ESN).md) reste la référence fonctionnelle : en cas d'écart, il fait foi.
 
+## Révision du 2026-11-23 (CVIP-9)
+
+L'application n'envoie plus aucun e-mail automatique et l'authentification interne est propre à l'application.
+
+| Écran | Correction | Référence CDC |
+| --- | --- | --- |
+| 5 · Liens de partage | Un lien personnel + mot de passe par destinataire, à transmettre par le commercial ; modes domaine / nominatif par code e-mail et transfert interne retirés ; demandes d'accès traitées dans l'application ; plus de notifications e-mail ; partage visible par le consultant | §3.3.3 à 3.3.7, §5 |
+| 6 · CV client | Bouton « Partager avec un collègue » retiré ; renvoi vers la demande d'accès ; filigrane au nom du destinataire | §3.3.2, 3.3.5 |
+| 14 · Accès client | Saisie du mot de passe du lien personnel ; formulaire « Demander un accès » ; plus de code e-mail | §3.3.3 à 3.3.5 |
+| 10 · Consultants | « Relancer les CV non à jour » remplacé par « Afficher les CV non à jour » | §3.1.4 |
+| 16 · Connexion | E-mail + mot de passe ; mot de passe provisoire transmis par les RH ; SSO retiré | §3.5.1, §5 |
+| 18 · Comptes et rôles | Réinitialisation du mot de passe par les RH, sans e-mail | §3.5.1, §5 |
+| 20 · Journal d'audit | Événements alignés (demande d'accès acceptée, liens personnels) | §3.5.5 |
+
 ## Révision du 2026-11-18
 
 | Écran | Correction | Référence CDC |
@@ -116,9 +130,9 @@ Source : [`sources/AppelsOffre.dc.html`](sources/AppelsOffre.dc.html)
 
 ## Accès client, missions, connexion
 
-### 14 · Client — Accès au CV (code e-mail, mot de passe)
+### 14 · Client — Accès au CV (lien personnel, mot de passe)
 
-![14 · Client — Accès au CV (code e-mail, mot de passe)](captures/Acces.png)
+![14 · Client — Accès au CV (lien personnel, mot de passe)](captures/Acces.png)
 
 Source : [`sources/Acces.dc.html`](sources/Acces.dc.html)
 
@@ -128,9 +142,9 @@ Source : [`sources/Acces.dc.html`](sources/Acces.dc.html)
 
 Source : [`sources/MissionsEnCours.dc.html`](sources/MissionsEnCours.dc.html)
 
-### 16 · Tous — Connexion SSO
+### 16 · Tous — Connexion
 
-![16 · Tous — Connexion SSO](captures/Connexion.png)
+![16 · Tous — Connexion](captures/Connexion.png)
 
 Source : [`sources/Connexion.dc.html`](sources/Connexion.dc.html)
 
